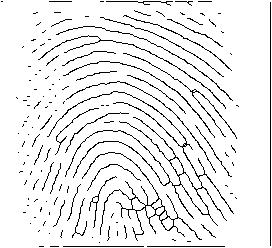
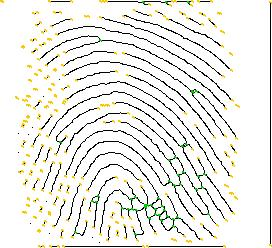
Nueva actualizacion

diff --git a/ImageJ/src/org/img/UtilProcesamientoBinario.java b/ImageJ/src/org/img/UtilProcesamientoBinario.java
@@ -1,5 +1,8 @@
 package org.img;
 
+import java.util.ArrayList;
+import java.util.List;
+
 public class UtilProcesamientoBinario {
 	// Dilatación
 	public static boolean[][] dilatacion(boolean[][] matriz,
@@ -189,30 +192,46 @@ public class UtilProcesamientoBinario {
 		return esqueleto;
 	}
 
-	public static void extraccionMinucias(boolean[][] m) {
+	public static List<int[]> extraccionMinucias(boolean[][] m) {
 
 		final int x = m.length;
 		final int y = m[0].length;
 
-		for (int i = 1; i < x -1; i++)
-			for (int j = 1; j < y -1; j++) {
-				int [] dif = new int[8];
-				dif[0] = Math.abs(bToBin(m[i][j+1]) - bToBin(m[i-1][j+1])); //1_2
-				dif[1] = Math.abs(bToBin(m[i-1][j+1]) - bToBin(m[i-1][j])); //2_3
-				dif[2] = Math.abs(bToBin(m[i-1][j]) - bToBin(m[i-1][j-1])); //3_4
-				dif[3] = Math.abs(bToBin(m[i-1][j-1]) - bToBin(m[i][j-1])); //4_5
-				dif[4] = Math.abs(bToBin(m[i][j-1]) - bToBin(m[i+1][j-1])); //5_6
-				dif[5] = Math.abs(bToBin(m[i+1][j-1]) - bToBin(m[i+1][j])); //6_7
-				dif[6] = Math.abs(bToBin(m[i+1][j]) - bToBin(m[i+1][j+1])); //7_8
-				dif[7] = Math.abs(bToBin(m[i+1][j+1]) - bToBin(m[i][j+1])); //8_9
-				
-				int sum = 0;
-				for (int k = 0; k < dif.length ; k++ ){
-					sum += dif[i];
+		List<int[]> minucias = new ArrayList<int[]>();
+
+		for (int i = 1; i < x - 1; i++)
+			for (int j = 1; j < y - 1; j++) {
+				if (m[i][j]) {
+					
+					int[] dif = new int[8];
+					dif[0] = Math.abs(bToBin(m[i][j + 1])
+							- bToBin(m[i - 1][j + 1])); // 1_2
+					dif[1] = Math.abs(bToBin(m[i - 1][j + 1])
+							- bToBin(m[i - 1][j])); // 2_3
+					dif[2] = Math.abs(bToBin(m[i - 1][j])
+							- bToBin(m[i - 1][j - 1])); // 3_4
+					dif[3] = Math.abs(bToBin(m[i - 1][j - 1])
+							- bToBin(m[i][j - 1])); // 4_5
+					dif[4] = Math.abs(bToBin(m[i][j - 1])
+							- bToBin(m[i + 1][j - 1])); // 5_6
+					dif[5] = Math.abs(bToBin(m[i + 1][j - 1])
+							- bToBin(m[i + 1][j])); // 6_7
+					dif[6] = Math.abs(bToBin(m[i + 1][j])
+							- bToBin(m[i + 1][j + 1])); // 7_8
+					dif[7] = Math.abs(bToBin(m[i + 1][j + 1])
+							- bToBin(m[i][j + 1])); // 8_9
+
+					int sum = 0;
+					for (int k = 0; k < dif.length; k++) {
+						sum += dif[k];
+					}
+					sum = sum/2;
+					final int[] aux = {i, j, sum};
+					minucias.add(aux);
 				}
-				
-				
+
 			}
+		return minucias;
 
 	}
 

diff --git a/ImageJ/src/org/main/Main.java b/ImageJ/src/org/main/Main.java
@@ -1,10 +1,12 @@
 package org.main;
 import java.awt.Image;
 import java.awt.image.BufferedImage;
+import java.util.List;
 
 import org.img.ImageJ;
 import org.img.UtilImagen;
 import org.img.UtilMatriz;
+import org.img.UtilPixel;
 import org.img.UtilProcesamiento;
 import org.img.UtilProcesamientoBinario;
 
@@ -51,6 +53,10 @@ public class Main {
 		for (int i = 0; i < 60; i++) {
 			zs = UtilProcesamientoBinario.ZhangSuen(zs);
 		}
+		
+		List<int[]> minucias = UtilProcesamientoBinario.extraccionMinucias(zs);
+		
+		
 
 		/*for (int i = 0; i < 20; i++) {
 			for (int j = 0; j < zs[0].length; j++) {
@@ -66,6 +72,46 @@ public class Main {
 		// int[][] mat = UtilProcesamiento.BooleanAPixel(dil);
 
 		int[][] mat = UtilProcesamiento.BooleanAPixel(zs);
+		
+		for (int[] min : minucias){
+			int i,j,x;
+			i = min[0];
+			j = min[1];
+			x = min[2];
+			
+			switch (x) {
+			case 0:
+				//mat[i][j] = UtilPixel.getPixel(200, 100, 100);
+				break;
+			case 1:
+				mat[i][j] = UtilPixel.getPixel(250, 200, 0);
+				mat[i][j-1] = UtilPixel.getPixel(250, 200, 0);
+				mat[i-1][j-1] = UtilPixel.getPixel(250, 200, 0);
+				mat[i-1][j] = UtilPixel.getPixel(250, 200, 0);
+				mat[i][j+1] = UtilPixel.getPixel(250, 200, 0);
+				mat[i+1][j+1] = UtilPixel.getPixel(250, 200, 0);
+				mat[i][j+1] = UtilPixel.getPixel(250, 200, 0);
+				break;
+			case 2:
+				//mat[min[0]][min[1]] = UtilPixel.getPixel(0, 200, 0);
+				break;
+			case 3:
+				mat[i][j] = UtilPixel.getPixel(0, 200, 0);
+				mat[i][j-1] = UtilPixel.getPixel(0, 200, 0);
+				mat[i-1][j-1] = UtilPixel.getPixel(0, 200, 0);
+				mat[i-1][j] = UtilPixel.getPixel(0, 200, 0);
+				mat[i][j+1] = UtilPixel.getPixel(0, 200, 0);
+				mat[i+1][j+1] = UtilPixel.getPixel(0, 200, 0);
+				mat[i][j+1] = UtilPixel.getPixel(0, 200, 0);
+			case 4:
+				/*mat[i][j] = UtilPixel.getPixel(0, 0, 200);
+				mat[i-1][j-1] = UtilPixel.getPixel(0, 0, 200);
+				mat[i+1][j+1] = UtilPixel.getPixel(0, 0, 200);*/
+				break;
+			default:
+				break;
+			}
+		}
 
 		int[] p = UtilMatriz.getVector(mat);
 
